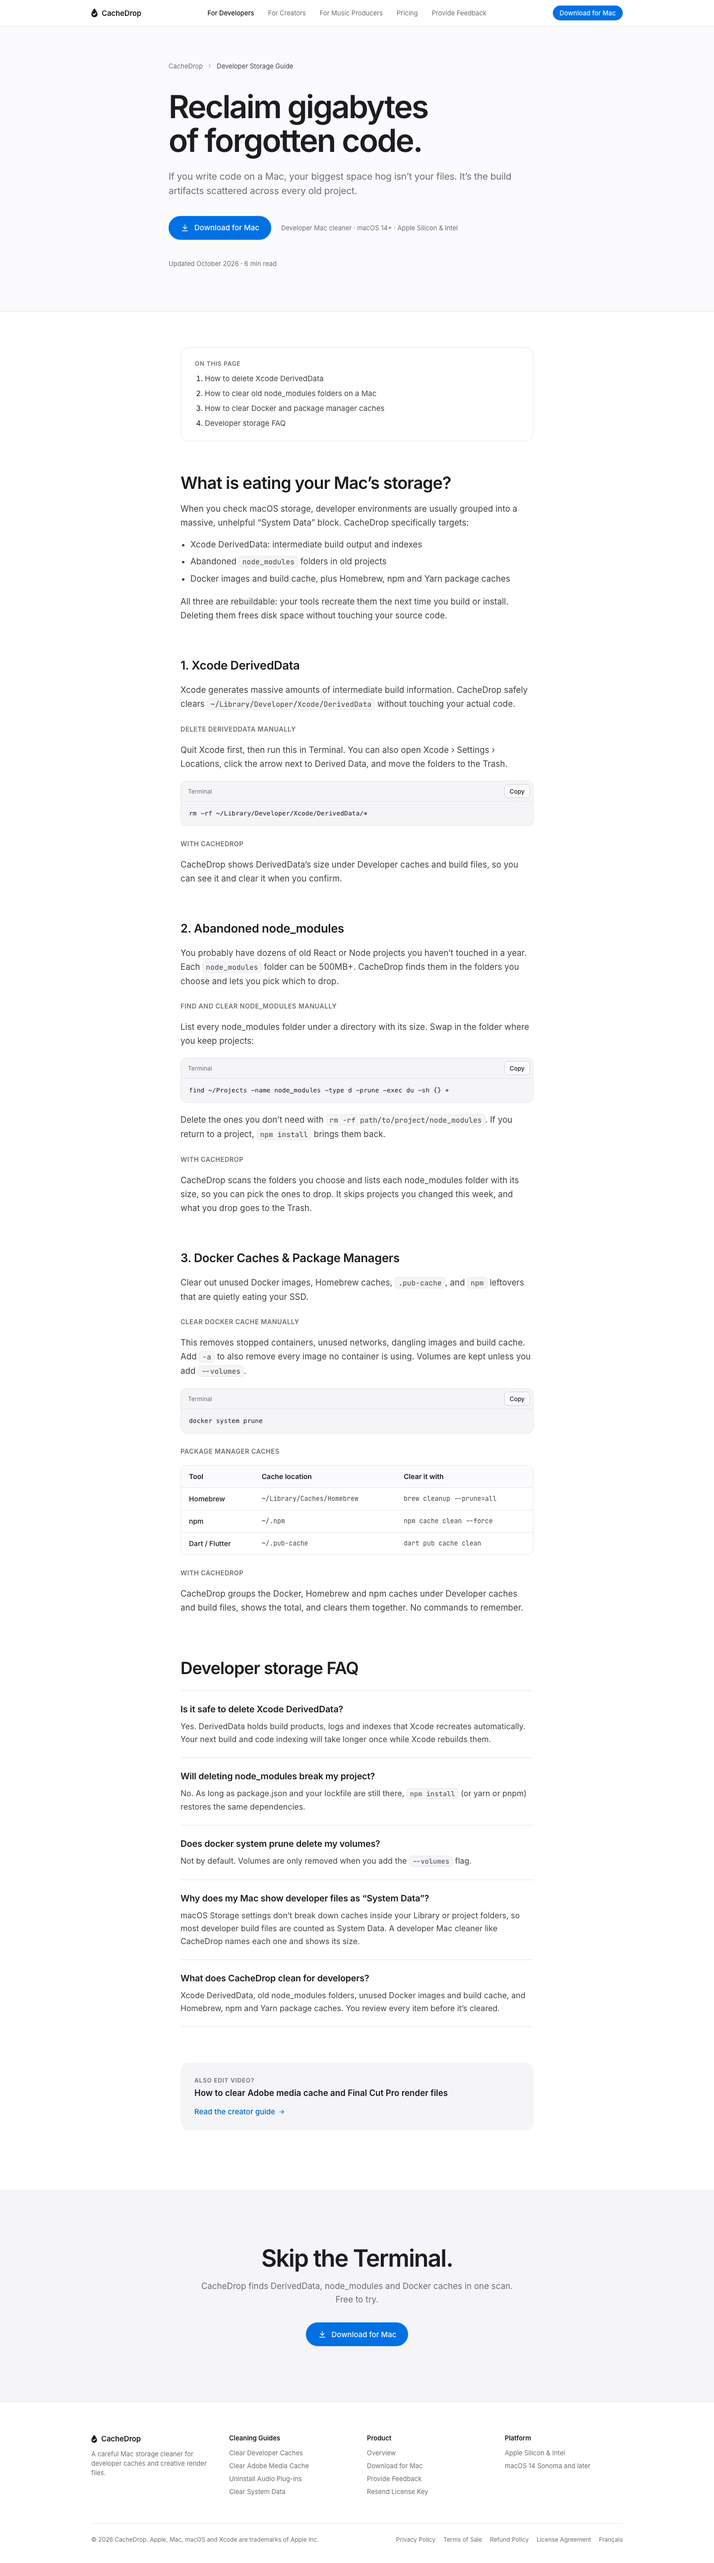
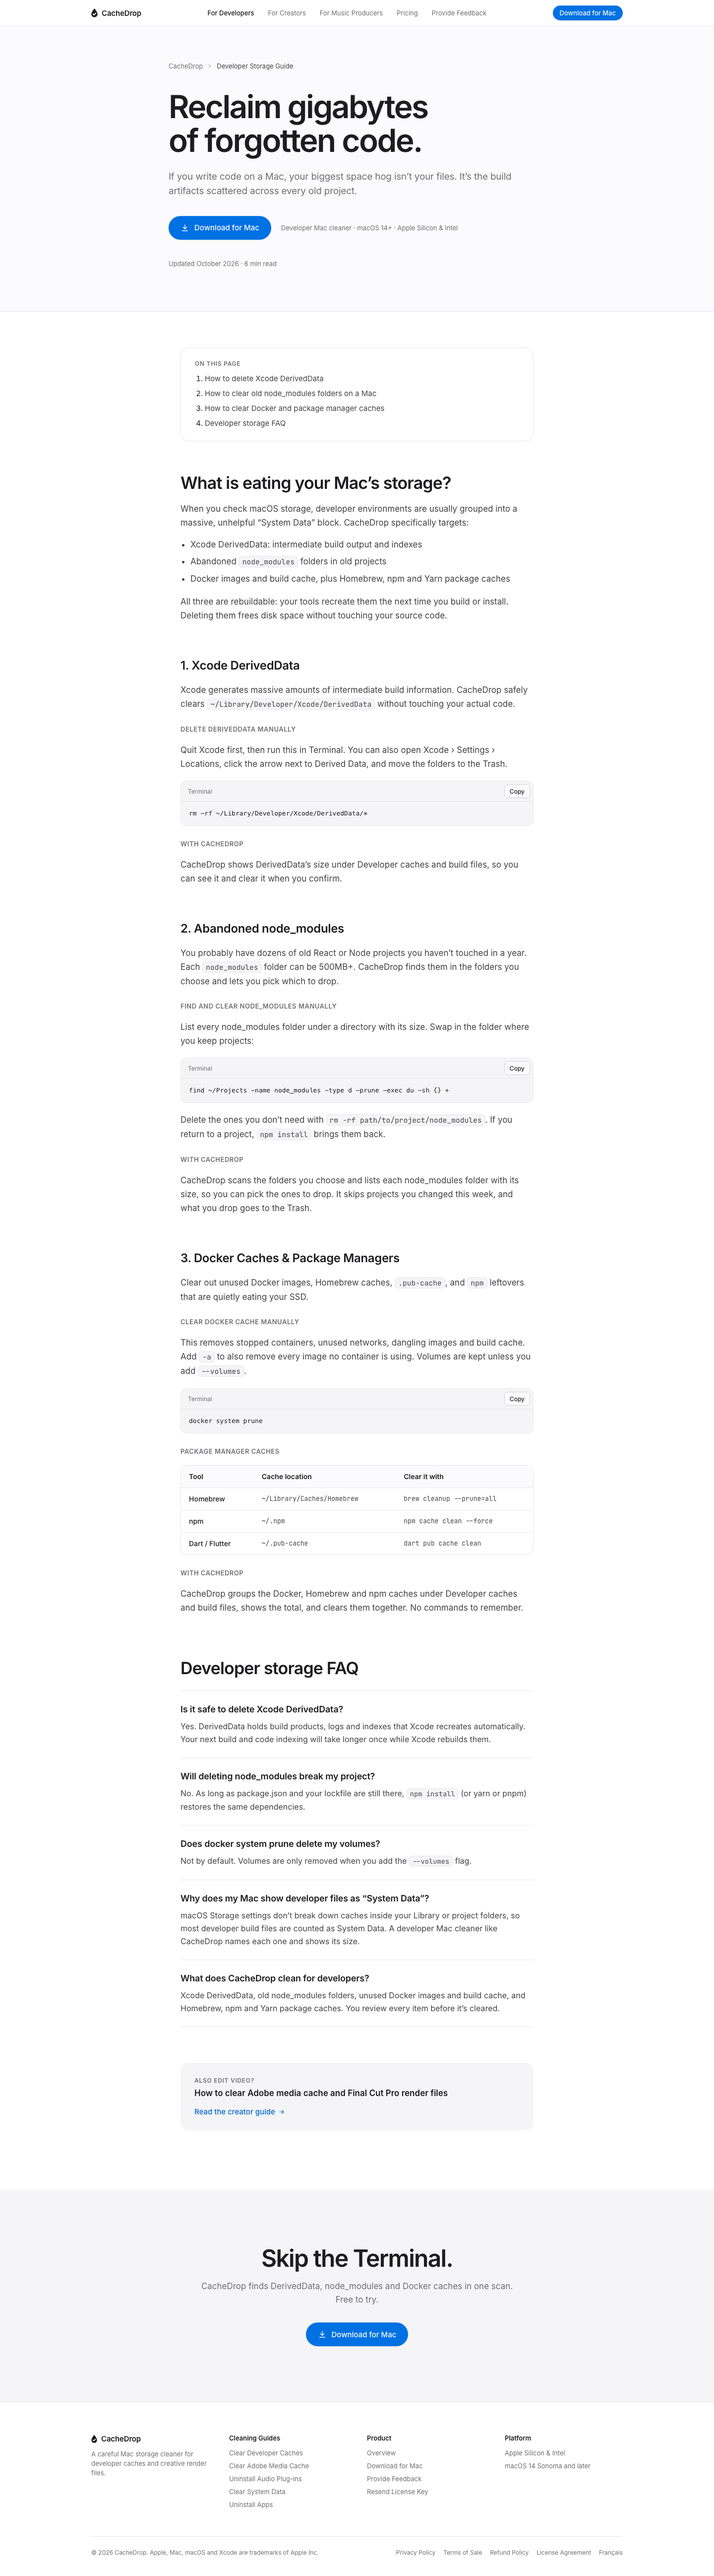
Guide: How to completely uninstall apps on Mac (EN + FR) (#111) (#117)
* Guide: how to completely uninstall apps on Mac (EN + FR) (#111)

/uninstall-apps-mac/ and /fr/uninstall-apps-mac/, in the guide format
(Decision 50). It leads with leftovers: why the Trash leaves files behind,
the ~/Library folders they live in, the manual way with real Terminal
commands, then CacheDrop's Applications uninstall, Files from deleted apps
and Put back, each checked against mac-cleaner 1.0.1 (022d2aee). The FAQ's
last answer states the trial, which uninstalls count toward (mac-cleaner
Decision 135). Article, BreadcrumbList, FAQPage and HowTo JSON-LD.

The guide and the producer page link to each other; the footer's Cleaning
Guides and the sitemap gain one entry each. tests/uninstall-apps.spec.ts
covers the H1, HowTo and FAQ in step, the links and the sitemap.

Claude-Session: https://claude.ai/code/session_01K3hKP6WD4q724NtMbye1eE

* Re-render the reference renders with the footer's uninstall apps guide link (#111)

Claude-Session: https://claude.ai/code/session_01K3hKP6zK118AJXqy9xewcn

---------

diff --git a/tests/uninstall-apps.spec.ts b/tests/uninstall-apps.spec.ts
@@ -1,0 +1,62 @@
+import { test, expect, type Page } from '@playwright/test';
+import { readFile } from 'node:fs/promises';
+
+// The app uninstall guide (#111, Decisions 50 and 51): a guide that leads with leftovers, with a HowTo and
+// FAQPage in its JSON-LD, linked with the producer page, the footer and the sitemap.
+
+async function jsonLd(page: Page) {
+  const raw = await page.locator('script[type="application/ld+json"]').first().textContent();
+  return JSON.parse(raw!)['@graph'] as Array<Record<string, unknown>>;
+}
+
+const langs = [
+  { path: '/uninstall-apps-mac/', h1: 'How to completely uninstall apps on Mac', cta: 'Download for Mac', download: '/download/', footer: 'Uninstall Apps', producer: '/uninstall-audio-plugins-mac/' },
+  { path: '/fr/uninstall-apps-mac/', h1: 'Comment désinstaller complètement une application sur Mac', cta: 'Télécharger pour Mac', download: '/fr/download/', footer: 'Désinstaller des applications', producer: '/fr/uninstall-audio-plugins-mac/' },
+] as const;
+
+for (const l of langs) {
+  test.describe(l.path, () => {
+    test('has the ticket\'s H1, leads with leftovers and sends the download button to the form', async ({ page }) => {
+      await page.goto(l.path);
+      await expect(page.getByRole('heading', { level: 1 })).toHaveText(l.h1);
+      await expect(page.locator('main section').first().getByRole('link', { name: l.cta })).toHaveAttribute('href', l.download);
+      await expect(page.locator('main section h2').first()).toContainText(/Library|Bibliothèque/);
+    });
+
+    test('describes the manual uninstall as a HowTo and keeps the FAQ in step', async ({ page }) => {
+      await page.goto(l.path);
+      const graph = await jsonLd(page);
+      const howTo = graph.find((n) => n['@type'] === 'HowTo') as { step: Array<{ text: string }> };
+      const steps = await page.locator('#manual ol').first().locator('li').allTextContents();
+      expect(steps.length).toBeGreaterThan(3);
+      expect(howTo.step.map((s) => s.text)).toEqual(steps);
+      const faq = graph.find((n) => n['@type'] === 'FAQPage') as { mainEntity: Array<{ name: string }> };
+      expect(faq.mainEntity.map((q) => q.name)).toEqual(await page.locator('#faq h3').allTextContents());
+    });
+
+    test('links to the producer page, and the producer page and footer link back', async ({ page }) => {
+      await page.goto(l.path);
+      await expect(page.locator(`main a[href="${l.producer}"]`)).toHaveCount(2); // in the body and the other-guide aside
+      await expect(page.getByRole('contentinfo').getByRole('link', { name: l.footer, exact: true })).toHaveAttribute('href', l.path);
+      await page.goto(l.producer);
+      await expect(page.locator(`#deleted-apps a[href="${l.path}"]`)).toHaveCount(1);
+    });
+  });
+}
+
+test('the sitemap lists the guide in both languages', async () => {
+  const xml = await readFile('dist/sitemap.xml', 'utf8');
+  for (const l of langs) expect(xml).toContain(`<loc>https://cachedrop.io${l.path}</loc>`);
+});
+
+// Claims follow the app (Decisions 48 and 51): uninstalls count toward the trial, and the app's own names are used.
+test('makes no claim the app contradicts', async ({ page }) => {
+  for (const l of langs) {
+    await page.goto(l.path);
+    const text = (await page.locator('main').innerText()).toLowerCase();
+    for (const banned of ['uninstall for free', 'deleted permanently', 'unused apps', 'junk', 'désinstallation gratuite'])
+      expect(text, `${l.path} says "${banned}"`).not.toContain(banned);
+    for (const name of ['files from deleted apps', 'possibly related', 'put back', 'needs your password to remove'])
+      expect(text, `${l.path} names "${name}"`).toContain(name);
+  }
+});

diff --git a/tests/pages.ts b/tests/pages.ts
@@ -20,6 +20,7 @@ export const pages: PageUnderTest[] = [
   { path: '/clear-adobe-media-cache-mac/', handoff: 'clear-adobe-media-cache-mac/index.html', screenshots: 'creator-guide' },
   { path: '/uninstall-audio-plugins-mac/' }, // the producer page (Decision 48): no handoff original
   { path: '/clear-system-data-mac/' }, // the System Data guide (#110): no handoff original
+  { path: '/uninstall-apps-mac/' }, // the app uninstall guide (#111): no handoff original
   { path: '/privacy/' }, // no handoff original: token and modal tests only
   { path: '/unsubscribe/' }, // new (Decision 4); vercel.json serves it at /unsubscribe/<token>/
   // The email form (Decision 1) is new; it keeps the handoff download page's head.
@@ -37,6 +38,7 @@ export const pages: PageUnderTest[] = [
   { path: '/fr/clear-adobe-media-cache-mac/', lang: 'fr' },
   { path: '/fr/uninstall-audio-plugins-mac/', lang: 'fr' },
   { path: '/fr/clear-system-data-mac/', lang: 'fr' },
+  { path: '/fr/uninstall-apps-mac/', lang: 'fr' },
   { path: '/fr/privacy/', lang: 'fr' },
   { path: '/fr/unsubscribe/', lang: 'fr' },
   { path: '/fr/download/', lang: 'fr' },
@@ -63,6 +65,7 @@ export const pairs: Pair[] = [
   pair('/clear-adobe-media-cache-mac/', true),
   pair('/uninstall-audio-plugins-mac/', true),
   pair('/clear-system-data-mac/', true),
+  pair('/uninstall-apps-mac/', true),
   pair('/privacy/', true),
   pair('/download/', false),
   pair('/download/link/', false, '/download/'),

diff --git a/src/components/guides.ts b/src/components/guides.ts
@@ -46,4 +46,15 @@ export const guides = {
       description: 'Ce que sont les Données système sur Mac, pourquoi elles grossissent autant et ce que vous pouvez supprimer sans risque : caches, journaux, fichiers de développement et instantanés locaux Time Machine, avec les commandes Terminal et leurs risques.',
     },
   },
+  apps: {
+    path: '/uninstall-apps-mac/',
+    en: {
+      title: 'How to Completely Uninstall Apps on Mac and Remove Leftovers',
+      description: 'Dragging an app to the Trash leaves its settings, caches and data behind. Find where app leftovers live on a Mac, remove them by hand, or uninstall apps with every file they left.',
+    },
+    fr: {
+      title: 'Désinstaller une application sur Mac et supprimer ses restes',
+      description: 'Glisser une application dans la Corbeille laisse ses réglages, ses caches et ses données. Trouvez où se cachent les restes d’applications sur Mac, supprimez-les à la main, ou désinstallez vos applications avec tous leurs fichiers.',
+    },
+  },
 } as const;

diff --git a/tests/handoff-changes.ts b/tests/handoff-changes.ts
@@ -46,6 +46,12 @@ export const handoffChanges: HandoffChange[] = [
     replace: '<a class="flink" href="/clear-adobe-media-cache-mac/">Clear Adobe Media Cache</a><a class="flink" href="/uninstall-audio-plugins-mac/">Uninstall Audio Plug-ins</a>',
   },
   {
+    decision: 51,
+    why: 'The footer\'s Cleaning Guides column links to the app uninstall guide (#111) after the producer page. Applied after the Decision 48 change.',
+    find: '<a class="flink" href="/uninstall-audio-plugins-mac/">Uninstall Audio Plug-ins</a>',
+    replace: '<a class="flink" href="/uninstall-audio-plugins-mac/">Uninstall Audio Plug-ins</a><a class="flink" href="/uninstall-apps-mac/">Uninstall Apps</a>',
+  },
+  {
     decision: 44,
     why: 'The nav links to /pricing/ after For Music Producers. Applied after the Decision 48 change.',
     find: 'For Music Producers</a>',

diff --git a/src/components/footer.ts b/src/components/footer.ts
@@ -8,6 +8,7 @@ export const footerCopy = {
     creator: 'Clear Adobe Media Cache',
     producer: 'Uninstall Audio Plug-ins',
     systemData: 'Clear System Data',
+    apps: 'Uninstall Apps',
     product: 'Product',
     overview: 'Overview',
     download: 'Download for Mac',
@@ -30,6 +31,7 @@ export const footerCopy = {
     creator: 'Vider le cache de média Adobe',
     producer: 'Désinstaller des plug-ins audio',
     systemData: 'Vider les Données système',
+    apps: 'Désinstaller des applications',
     product: 'Produit',
     overview: 'Aperçu',
     download: 'Télécharger pour Mac',

diff --git a/src/components/llms.ts b/src/components/llms.ts
@@ -6,7 +6,7 @@ import { guides } from './guides';
 import { pricingCopy } from './pricing';
 import { localize, type Lang } from '../i18n';
 
-const guideKeys = ['developer', 'creator', 'producer', 'systemData'] as const;
+const guideKeys = ['developer', 'creator', 'producer', 'systemData', 'apps'] as const;
 
 /** The file's text, with absolute links on `site` (e.g. `https://cachedrop.io`). */
 export function llmsTxt(site: string): string {
